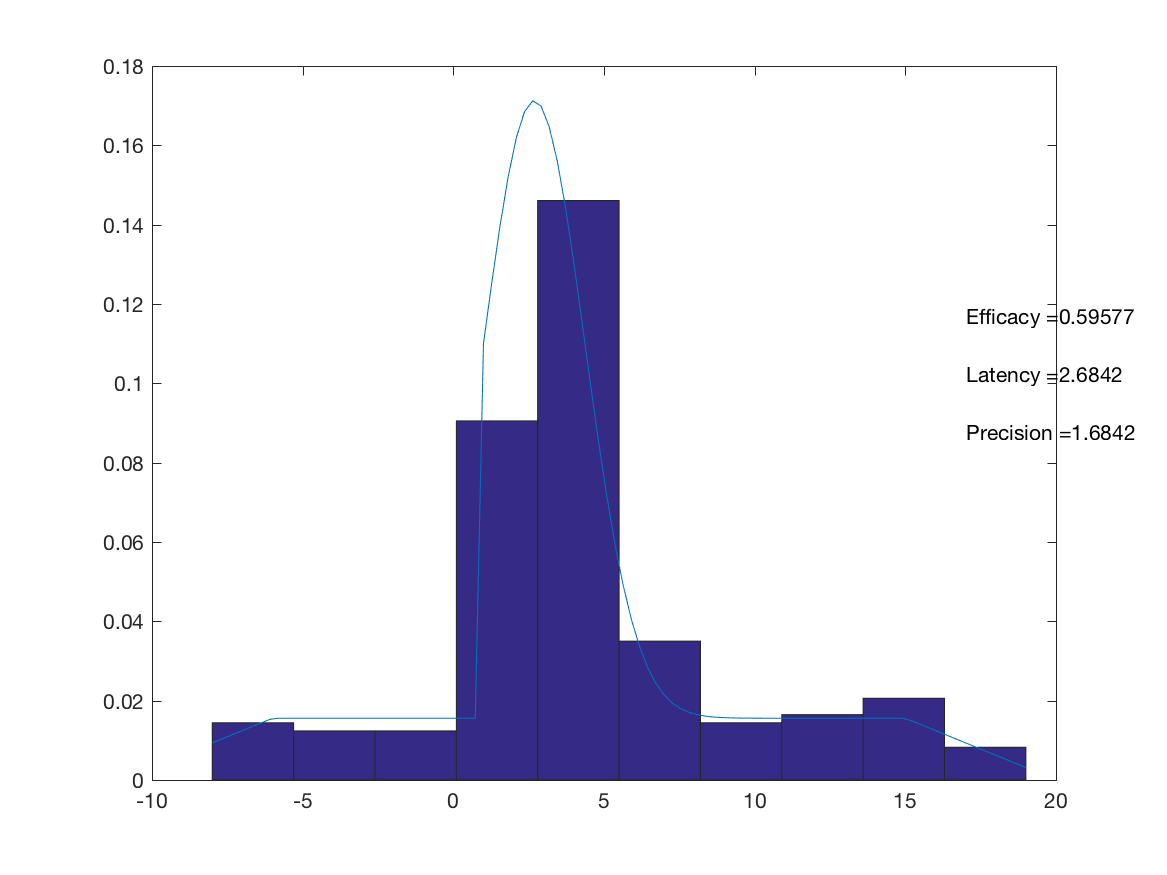
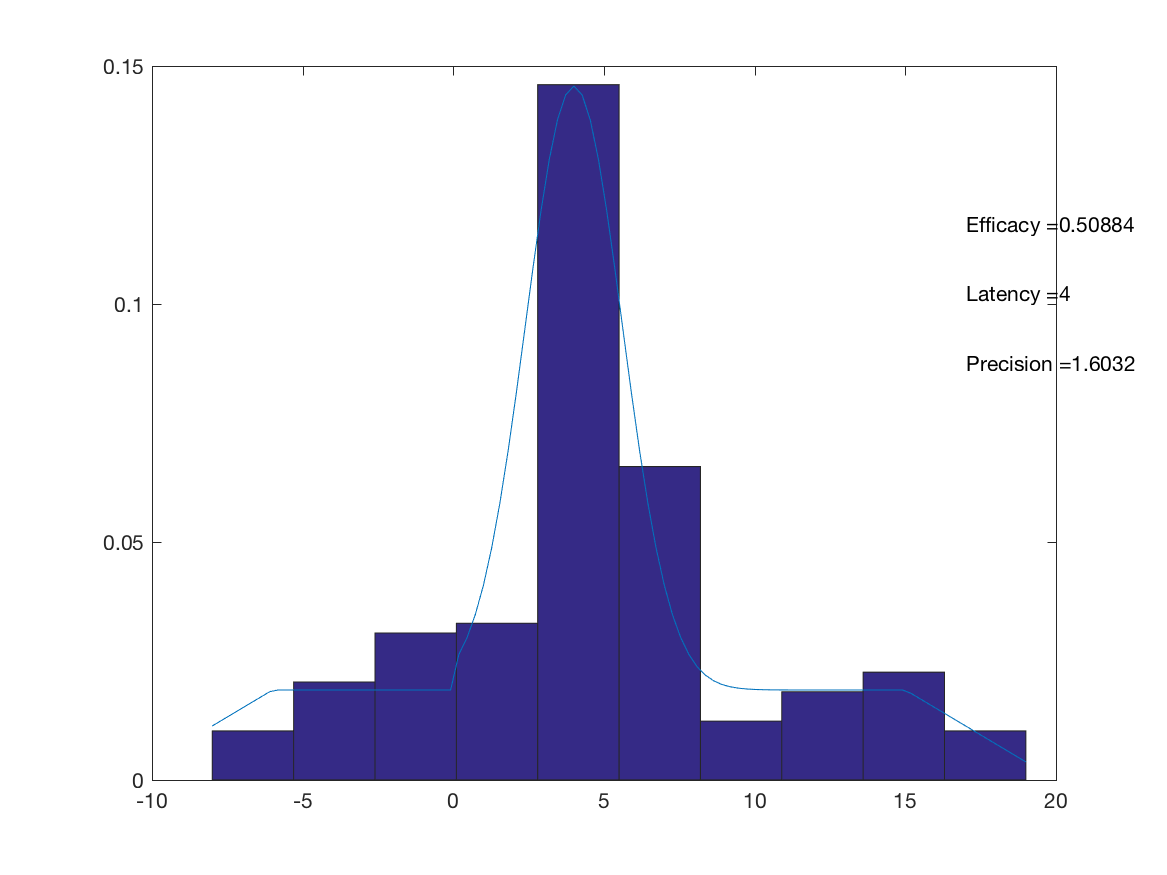
trunc norm and shui analysis

diff --git a/modellingScripts/TGAB_pdf_Trunc_Norm_Mixture_Single.m b/modellingScripts/TGAB_pdf_Trunc_Norm_Mixture_Single.m
@@ -3,10 +3,10 @@ function result = TGAB_pdf_Mixture_Single(x,p,mu,sigma)
     global xDomain;
     global pseudo_uniform;
     
-    %[p mu sigma]
+    [p mu sigma]
    
     truncNormPDF = @truncNormFunction;
-    x_min = -.5; %set the lower bound so that one tail is cut off
+    x_min = 0; %set the lower bound so that one tail is cut off
 
     pseudo_normal = truncNormPDF(xDomain,mu,sigma,x_min).*pseudo_uniform;
     

diff --git a/modellingScripts/TG_compileData_Exp2.m b/modellingScripts/TG_compileData_Exp2.m
@@ -69,7 +69,7 @@ for thisGroup = 1:nGroups
 
         thisFileName = allFiles{thisFile};
         participant = strsplit(thisFileName,'.');
-        participant = participant{1};
+        participant = participant{1}
         allParticipants{thisFile} = participant;
 
     end

diff --git a/modellingScripts/TG_DualRSVP_truncNorm_Model_Exp2.m b/modellingScripts/TG_DualRSVP_truncNorm_Model_Exp2.m
@@ -14,7 +14,7 @@ itemRates = [12,12];
 letterArray = char(65:90);      % A to Z
 nConditions = 1;
 nStreams = 1;
-nParticipants = [7 6];
+nParticipants = [6 6];
 nTrials = 180;
 nSessions = 1;
 nSamples = numel(sampleNames);
